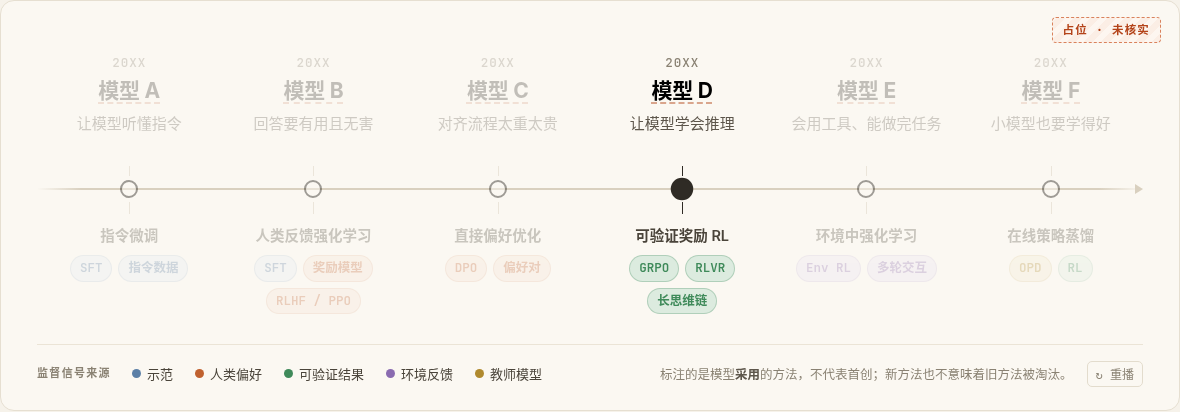
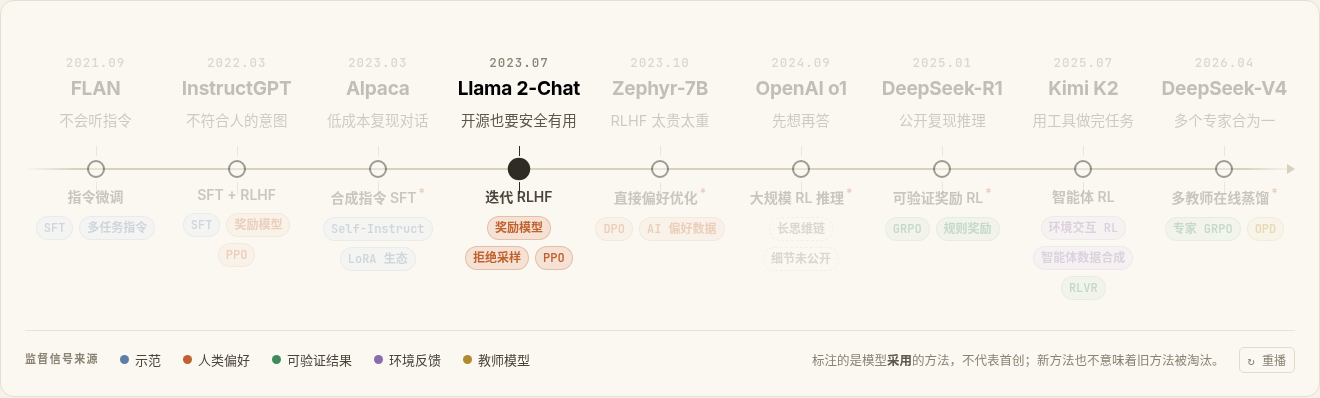
Timeline: real verified nodes (9), sources doc, density tweaks

diff --git a/src/data/timeline.ts b/src/data/timeline.ts
@@ -7,20 +7,31 @@ export const SIGNALS: Record<Signal, { label: string; desc: string; color: strin
   env:     { label: '环境反馈', desc: '在工具/环境里做成没有', color: '#8a6bb0', soft: '#e9e2f2' },
   teacher: { label: '教师模型', desc: '更强模型给逐 token 指导', color: '#b08a2e', soft: '#f1e8cf' },
 };
-export type Tech = { name: string; signal: Signal };
-export type TLNode = { id: string; model: string; date: string; problem: string; strategy: string; techs: Tech[] };
-export const PLACEHOLDER = true;
+export type Tech = { name: string; signal?: Signal };   // 无 signal = 未公开/不归类（灰色）
+export type TLNode = { id: string; model: string; date: string; problem: string; strategy: string; techs: Tech[]; note?: string };
+export const PLACEHOLDER = false;
+// 来源与引文见 docs/timeline-sources.md。标注的是该模型「采用」的方法，不是发明。
 export const NODES: TLNode[] = [
-  { id: 'a', model: '模型 A', date: '20XX', problem: '让模型听懂指令', strategy: '指令微调',
-    techs: [{ name: 'SFT', signal: 'demo' }, { name: '指令数据', signal: 'demo' }] },
-  { id: 'b', model: '模型 B', date: '20XX', problem: '回答要有用且无害', strategy: '人类反馈强化学习',
-    techs: [{ name: 'SFT', signal: 'demo' }, { name: '奖励模型', signal: 'pref' }, { name: 'RLHF / PPO', signal: 'pref' }] },
-  { id: 'c', model: '模型 C', date: '20XX', problem: '对齐流程太重太贵', strategy: '直接偏好优化',
-    techs: [{ name: 'DPO', signal: 'pref' }, { name: '偏好对', signal: 'pref' }] },
-  { id: 'd', model: '模型 D', date: '20XX', problem: '让模型学会推理', strategy: '可验证奖励 RL',
-    techs: [{ name: 'GRPO', signal: 'verify' }, { name: 'RLVR', signal: 'verify' }, { name: '长思维链', signal: 'verify' }] },
-  { id: 'e', model: '模型 E', date: '20XX', problem: '会用工具、能做完任务', strategy: '环境中强化学习',
-    techs: [{ name: 'Env RL', signal: 'env' }, { name: '多轮交互', signal: 'env' }] },
-  { id: 'f', model: '模型 F', date: '20XX', problem: '小模型也要学得好', strategy: '在线策略蒸馏',
-    techs: [{ name: 'OPD', signal: 'teacher' }, { name: 'RL', signal: 'verify' }] },
+  { id: 'flan', model: 'FLAN', date: '2021.09', problem: '不会听指令', strategy: '指令微调',
+    techs: [{ name: 'SFT', signal: 'demo' }, { name: '多任务指令', signal: 'demo' }] },
+  { id: 'instructgpt', model: 'InstructGPT', date: '2022.03', problem: '不符合人的意图', strategy: 'SFT + RLHF',
+    techs: [{ name: 'SFT', signal: 'demo' }, { name: '奖励模型', signal: 'pref' }, { name: 'PPO', signal: 'pref' }] },
+  { id: 'alpaca', model: 'Alpaca', date: '2023.03', problem: '低成本复现对话', strategy: '合成指令 SFT',
+    techs: [{ name: 'Self-Instruct', signal: 'demo' }, { name: 'LoRA 生态', signal: 'demo' }],
+    note: 'Alpaca 官方为全参微调；LoRA 来自社区复现 alpaca-lora' },
+  { id: 'llama2', model: 'Llama 2-Chat', date: '2023.07', problem: '开源也要安全有用', strategy: '迭代 RLHF',
+    techs: [{ name: '奖励模型', signal: 'pref' }, { name: '拒绝采样', signal: 'pref' }, { name: 'PPO', signal: 'pref' }] },
+  { id: 'zephyr', model: 'Zephyr-7B', date: '2023.10', problem: 'RLHF 太贵太重', strategy: '直接偏好优化',
+    techs: [{ name: 'DPO', signal: 'pref' }, { name: 'AI 偏好数据', signal: 'pref' }],
+    note: '偏好标签由 GPT-4 打分（AI 反馈），非人工' },
+  { id: 'o1', model: 'OpenAI o1', date: '2024.09', problem: '先想再答', strategy: '大规模 RL 推理',
+    techs: [{ name: '长思维链' }, { name: '细节未公开' }], note: '官方仅称用大规模 RL 训练思维链，奖励与算法未公开' },
+  { id: 'r1', model: 'DeepSeek-R1', date: '2025.01', problem: '公开复现推理', strategy: '可验证奖励 RL',
+    techs: [{ name: 'GRPO', signal: 'verify' }, { name: '规则奖励', signal: 'verify' }],
+    note: 'GRPO 提出于 DeepSeekMath (2024.02)；RLVR 一词由 Tülu 3 (2024.11) 命名' },
+  { id: 'k2', model: 'Kimi K2', date: '2025.07', problem: '用工具做完任务', strategy: '智能体 RL',
+    techs: [{ name: '环境交互 RL', signal: 'env' }, { name: '智能体数据合成', signal: 'env' }, { name: 'RLVR', signal: 'verify' }] },
+  { id: 'v4', model: 'DeepSeek-V4', date: '2026.04', problem: '多个专家合为一', strategy: '多教师在线蒸馏',
+    techs: [{ name: '专家 GRPO', signal: 'verify' }, { name: 'OPD', signal: 'teacher' }],
+    note: 'OPD 取代 V3.2 的混合 RL 阶段；student 优化对多教师的 reverse KL' },
 ];

diff --git a/src/figs/Timeline.tsx b/src/figs/Timeline.tsx
@@ -19,8 +19,8 @@ export default function Timeline({ nodes = NODES, variant = 'A', placeholder = P
   const used = order.filter(s => nodes.some(n => n.techs.some(t => t.signal === s)));
   const n = nodes.length;
   // B: 每个节点主信号（出现最多者）用于轴下色带
-  const main = (nd: TLNode) => { const c: Record<string, number> = {}; nd.techs.forEach(t => c[t.signal] = (c[t.signal] || 0) + 1); return Object.entries(c).sort((a, b) => b[1] - a[1])[0][0] as Signal; };
-  const stops = nodes.map((nd, i) => `${SIGNALS[main(nd)].color} ${((i + .5) / n * 100).toFixed(1)}%`).join(',');
+  const main = (nd: TLNode) => { const c: Record<string, number> = {}; nd.techs.forEach(t => { if (t.signal) c[t.signal] = (c[t.signal] || 0) + 1; }); const e = Object.entries(c).sort((a, b) => b[1] - a[1])[0]; return e ? e[0] as Signal : null; };
+  const stops = nodes.map((nd, i) => `${(main(nd) ? SIGNALS[main(nd)!].color : '#8a8273')} ${((i + .5) / n * 100).toFixed(1)}%`).join(',');
 
   return (
     <div ref={ref} key={key} className={`tl tl-${variant} ${shown ? 'on' : ''} ${active || sig ? 'focus' : ''}`} style={{ ['--n' as any]: n }}>
@@ -33,7 +33,7 @@ export default function Timeline({ nodes = NODES, variant = 'A', placeholder = P
           const hit = sig ? nd.techs.some(t => t.signal === sig) : false;
           const lit = active ? isA : sig ? hit : true;
           return (
-            <div key={nd.id} className={`tl-col ${lit ? 'lit' : 'dim'} ${isA ? 'act' : ''}`} style={{ ['--i' as any]: i }}
+            <div key={nd.id} title={nd.note} className={`tl-col ${lit ? 'lit' : 'dim'} ${isA ? 'act' : ''}`} style={{ ['--i' as any]: i }}
               onMouseEnter={() => setHover(nd.id)} onMouseLeave={() => setHover(null)}
               onClick={() => setPinned(p => p === nd.id ? null : nd.id)}>
               <div className="tl-top">
@@ -41,13 +41,13 @@ export default function Timeline({ nodes = NODES, variant = 'A', placeholder = P
                 <div className={`tl-model ${placeholder ? 'ph' : ''}`}>{nd.model}</div>
                 <div className="tl-prob">{nd.problem}</div>
               </div>
-              <div className="tl-dot"><span style={variant === 'B' ? { borderColor: SIGNALS[main(nd)].color } : undefined} /></div>
+              <div className="tl-dot"><span style={variant === 'B' && main(nd) ? { borderColor: SIGNALS[main(nd)!].color } : undefined} /></div>
               <div className="tl-bot">
-                <div className="tl-strat">{nd.strategy}</div>
+                <div className="tl-strat">{nd.strategy}{nd.note && <sup className="tl-nm" title={nd.note}>*</sup>}</div>
                 <div className="tl-tags">
                   {nd.techs.map(t => {
-                    const s = SIGNALS[t.signal]; const off = sig && sig !== t.signal;
-                    return <span key={t.name} className={`tl-tag ${off ? 'off' : ''}`} style={{ ['--c' as any]: s.color, ['--s' as any]: s.soft }}>{t.name}</span>;
+                    const s = t.signal ? SIGNALS[t.signal] : { color: '#8a8273', soft: '#ece7dd' }; const off = sig && sig !== t.signal;
+                    return <span key={t.name} className={`tl-tag ${off ? 'off' : ''} ${t.signal ? '' : 'na'}`} style={{ ['--c' as any]: s.color, ['--s' as any]: s.soft }}>{t.name}</span>;
                   })}
                 </div>
               </div>

diff --git a/src/figs/timeline.css b/src/figs/timeline.css
@@ -53,3 +53,14 @@
 .tl-B .tl-foot{border-color:#2e2b26} .tl-B .tl-sig{color:#cfc8bb} .tl-B .tl-note b{color:#cfc8bb} .tl-B .tl-replay{border-color:#3a362f}
 .tl-band{grid-row:2;grid-column:1/-1;align-self:center;height:4px;margin-top:20px;border-radius:2px;opacity:0;transition:opacity .8s 1.4s;mask:linear-gradient(90deg,transparent,#000 6%,#000 94%,transparent)}
 .on .tl-band{opacity:.75}
+
+.tl-tag.na{border-style:dashed;background:transparent}
+.tl-nm{color:#c0612f;font-weight:700;margin-left:2px}
+/* density for 8+ nodes */
+.tl{padding-left:24px;padding-right:24px}
+.tl-top,.tl-dot,.tl-bot{padding:0 4px}
+.tl-model{font-size:clamp(15px,1.35vw,19px);white-space:nowrap}
+.tl-prob{font-size:clamp(12.5px,1.05vw,14.5px)}
+.tl-strat{font-size:clamp(12.5px,1.02vw,14px)}
+.tl-tag{font-size:clamp(10.5px,.85vw,12px);padding:5px 7px}
+.tl-date{font-size:12px}

diff --git a/docs/timeline-sources.md b/docs/timeline-sources.md
@@ -1,0 +1,29 @@
+# 开场时间轴 · 来源与取舍
+
+原则：节点是**代表模型**，标签是该模型**采用**的技术（不代表首创，也不代表淘汰旧方法）。日期取论文 arXiv v1 提交日或官方发布日期。以下链接已于 2026-10-15 确认能打开（OpenAI 页面用 curl 会被 403，用 WebFetch 能正常读取）。
+
+| # | 节点 | 日期 | 一手来源 | 依据（摘录/要点） |
+|---|---|---|---|---|
+| 1 | FLAN | 2021.09 | [arXiv 2109.01652](https://arxiv.org/abs/2109.01652)《Finetuned Language Models Are Zero-Shot Learners》v1 2021-09-03 | 在 60+ 个用自然语言指令描述的数据集上做 instruction tuning，提升零样本能力 → SFT / 多任务指令 |
+| 2 | InstructGPT | 2022.03 | [arXiv 2203.02155](https://arxiv.org/abs/2203.02155) v1 2022-03-04 | 三步：示范数据 SFT → 比较数据训练 RM → 用 PPO 优化 RM |
+| 3 | Alpaca | 2023.03 | [Stanford CRFM 博客 2023-03-13](https://crfm.stanford.edu/2023/03/13/alpaca.html)；LoRA：[arXiv 2106.09685](https://arxiv.org/abs/2106.09685)（2021-06）；社区复现 [tloen/alpaca-lora](https://github.com/tloen/alpaca-lora) | "fine-tuned from the LLaMA 7B model on 52K instruction-following demonstrations"（数据用 Self-Instruct 方式由 text-davinci-003 生成）。**官方 Alpaca 是全参微调**，LoRA 来自社区 alpaca-lora，所以图上写的是「LoRA 生态」并加了注释 |
+| 4 | Llama 2-Chat | 2023.07 | [arXiv 2307.09288](https://arxiv.org/abs/2307.09288) v1 2023-07-18 | SFT 之后迭代 RLHF：用 helpfulness / safety 两个 RM，先拒绝采样微调，再做 PPO |
+| 5 | Zephyr-7B | 2023.10 | [arXiv 2310.16944](https://arxiv.org/abs/2310.16944) v1 2023-10-25 | "distilled direct preference optimization (dDPO)…preference data from AI Feedback…requires no human annotation" → DPO；偏好来自 AI 打分（UltraFeedback 用 GPT-4 打分），所以归在「偏好」类，并注明不是人工标注 |
+| 6 | OpenAI o1 | 2024.09 | [OpenAI《Learning to reason with LLMs》2024-09-12](https://openai.com/index/learning-to-reason-with-llms/) | "trained with reinforcement learning…large-scale reinforcement learning algorithm teaches the model how to think productively using its chain of thought"。**奖励形式与算法未公开**，所以标签是灰色虚线、不归入任何信号类 |
+| 7 | DeepSeek-R1 | 2025.01 | [arXiv 2501.12948](https://arxiv.org/abs/2501.12948) v1 2025-01-22 | R1-Zero / R1 用 GRPO；"we employ rule-based rewards…mathematical, coding, and logical reasoning domains" |
+| 8 | Kimi K2 | 2025.07 | [arXiv 2507.20534](https://arxiv.org/abs/2507.20534) v1 2025-07-28 | "large-scale agentic data synthesis pipeline and a joint RL stage…interactions with real and synthetic environments"；RL 框架 "combines verifiable rewards (RLVR) with a self-critique rubric reward" |
+| 9 | DeepSeek-V4 | 2026.04 | [arXiv 2606.19348](https://arxiv.org/abs/2606.19348) v1 2026-04-26 | §5.1："the mixed RL stage was entirely replaced by On-Policy Distillation"；先按领域训练专家（SFT + GRPO），再用 multi-teacher OPD 合并，"student learning to optimize the reverse KL loss with teacher models"；引用 Gu et al. 2024 和 [Thinking Machines《On-Policy Distillation》](https://thinkingmachines.ai/blog/on-policy-distillation/)（2025-10） |
+
+## 方法起点（放在注释里，不单独做节点）
+- **GRPO 提出**：DeepSeekMath，[arXiv 2402.03300](https://arxiv.org/abs/2402.03300)，2024-02-05。R1 是「采用」它的代表模型。
+- **RLVR 命名**：Tülu 3，[arXiv 2411.15124](https://arxiv.org/abs/2411.15124)，2024-11-22，摘要原文："a novel method we call Reinforcement Learning with Verifiable Rewards (RLVR)"。
+- **OPD 早期工业应用**：Qwen3，[arXiv 2505.09388](https://arxiv.org/abs/2505.09388)，2025-05-14，§4.5 Strong-to-Weak Distillation，小模型做 on-policy distillation（"student…aligning its logits with those of a teacher…minimize the KL divergence"）。
+
+## 取舍与存疑
+- **ChatGPT（2022.11）没做节点**：它是产品化，后训练方法与 InstructGPT 同类（官方博客说用 RLHF、方法与 InstructGPT 相同，只是数据收集方式略有不同；该页 curl 返回 403，这里没有逐字复核）。放进来容易把「RLHF 出现、InstructGPT、ChatGPT 产品化」三件事混在一起。
+- **o1 的信号来源不确定**：外界普遍推测是可验证奖励，但官方没说，所以不着色。
+- **Zephyr 的信号**：用的是 AI 反馈的偏好，不是人类偏好，归入「偏好」类只是为了让图更简洁。
+- **Agentic RL 代表**：选了 Kimi K2（开源、技术报告写得明确）。DeepSeek-V3.2（[arXiv 2512.02556](https://arxiv.org/abs/2512.02556)，2025-12-02，"Large-Scale Agentic Task Synthesis Pipeline"）可以作为替换项。
+- **DeepSeek 的 OPD**：一手来源确认是 V4。目前没有找到 V3.x 或 R1 使用 OPD 的一手证据（R1 的蒸馏小模型是离线 SFT 蒸馏，不是 on-policy）。
+- **DeepSeek-V4 的 arXiv 编号是 2606.xxxxx，但 v1 提交日期显示 2026-04-26**：编号和日期对不上。图上取页面显示的提交日期，正式使用前建议再到 DeepSeek 官方渠道核对发布时间。
+- **LoRA 节点**：PEFT/LoRA 不是某个代表模型的官方配方，所以挂在 Alpaca 生态上，并注明了。
